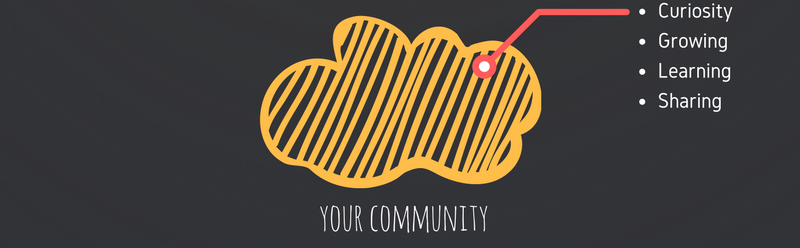
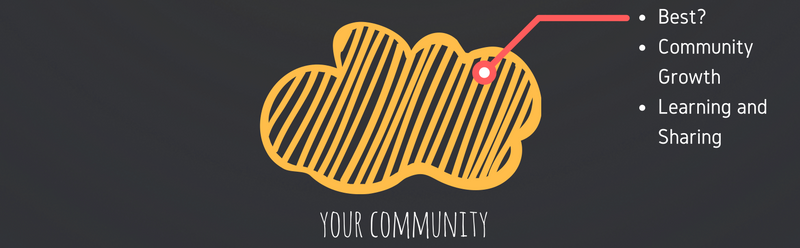
update post on Quality Assurance Thoughts

diff --git a/_posts/2016-09-06-My-Quality-Assurance-Thoughts.md b/_posts/2016-09-06-My-Quality-Assurance-Thoughts.md
@@ -44,7 +44,7 @@ Your team is the first place where you can be an advocate for all things related
 2. **Collaboration**
   
    Unfortunately, I often find it the role of a QA to gather all stakeholders at a lot of the shoulder checks, kick offs, sign offs or showcases.  However, each of these steps in a story lifecycle is vitally important to ensure that we all have a shared understanding of what we are building.  I've found that using techniques such as BDD or Three Amigos can help facilitate collaboration.
-3. **Understanding Value **
+3. **Valuable?**
 
    Questioning the value of project activities or decisions.  I often find myself in the position of trying to minimise as much waste as possible so that time can be spent on building more features or performing exploratory testing.
 
@@ -52,15 +52,10 @@ Your team is the first place where you can be an advocate for all things related
 
 I genuinely enjoy working with people.  I often spend up to 8 hours a day with some of these people, and I believe building a strong (quality) relationship can go a long way.
 
-1. **Learning**
+1. **Learning and Sharing**
    
-   Learn from others.  A project team often has a diverse selection of people, backgrounds and roles.  This means that every interaction you have is an opportunity to learn something new.  Learn a bit more about a particular technology from a Software Engineer or learn a bit more about the business or product from a Business Analyst or Product Analyst.
-2. **Sharing**
-   
-   Share what you have learnt to others.
-3. **Innovating**
+   Learn from others.  A project team often has a diverse selection of people, backgrounds and roles.  This means that every interaction you have is an opportunity to learn something new.  Learn a bit more about a particular technology from a Software Engineer or learn a bit more about the business or product from a Business Analyst or Product Analyst.  Always share what you have learnt to others.
 
-   Always find opportunities to innovate or be creative.  Every problem or challenge you face is a chance to come up with an innovative solution.  Looking for creative ways of solving a problem will drive learning, and learning drives sharing.
 
 #### Software and Hardware
 
@@ -77,13 +72,11 @@ Next, your organisation is a place where you can learn and share what other area
 1. **Awareness**
 
    I often find myself proactively reaching out to areas of my organisation about some of the services that the team can offer.  With automated testing and early collaboration, it removes the need for many testing related activities (e.g., UAT) to occur.  By educating our stakeholders, we have the ability to remove this waste and instead spend our time on more valuable activities.  
-2. **Learning**
+2. **Learning and Sharing**
  
-   It is also important to reach out to other areas of the organisation in the same field as you.  There is great value in establishing a community or forum for QAs across an organisation who are working on different projects.  These communities can facilitate knowledge sharing and learning of the different tools and technologies used across an organisation, but can also facilitate conversations around problems faced by one team may have already been solved by another.
-3. **Sharing**
+   It is also important to reach out to other areas of the organisation in the same field as you.  There is great value in establishing a community or forum for QAs across an organisation who are working on different projects.  These communities can facilitate knowledge sharing and learning of the different tools and technologies used across an organisation, but can also facilitate conversations around problems faced by one team may have already been solved by another.  Always share what you have learnt to others.
 
-   Share what you have learnt to others.
-4. **Innovating**
+3. **Innovating**
 
    Innovation days are a great way to trial a new tool or technology.  Often with project schedules, there isn't always the time to experiement on something not relevant to your project, however, in the last few innovation days I have had the chance to work on Visual Regression Testing, Mobile Testing and also a bit in the DevOps space.
 
@@ -93,18 +86,15 @@ Next, your community is a place where you can learn and share what other organis
 
 ![Quality Assurance Your Community](../images/Quality-YourCommunity.png){: .center-image }
 
-1. **Curiosity**
+1. **Best?**
 
    One of my mentors once asked me "_what does the best QA team look like_".  This question has always remained in the back of my mind, and it is the biggest contributor for my desire and curiosity to learn and know more.  However, I believe that in order to know what _best_ looks like, you need to follow  trends in the industry, which means, being active in the community.  This could be through reading blogs, attending meetups or attending conferences.  Most of the time that I find out about a new technique or a new technology it is through one of these mediums.
-2. **Growing**
+2. **Community Growth**
  
    I now feel that I am at a level where I can start to share some of my experiences and knowledge to others and hopefully grow the QA community.  I like to be involved in local meetup events, but also like to mentor students at a local university.  I feel that I can help bridge the gap between what is taught from a theoretical perspective and what is performed in practice by regularly speaking to students who are looking to pursue a career in Quality Assurance.
-3. **Learning**
+3. **Learning and Sharing**
 
-   As mentioned before, learn through reading blogs, attending meetups or attending conferences.
-4. **Sharing**
-
-   Share what you have learnt to others.
+   As mentioned before, learn through reading blogs, attending meetups or attending conferences.  Alwayws share what you have learnt to others.
 
 ### Full Infographic
 
